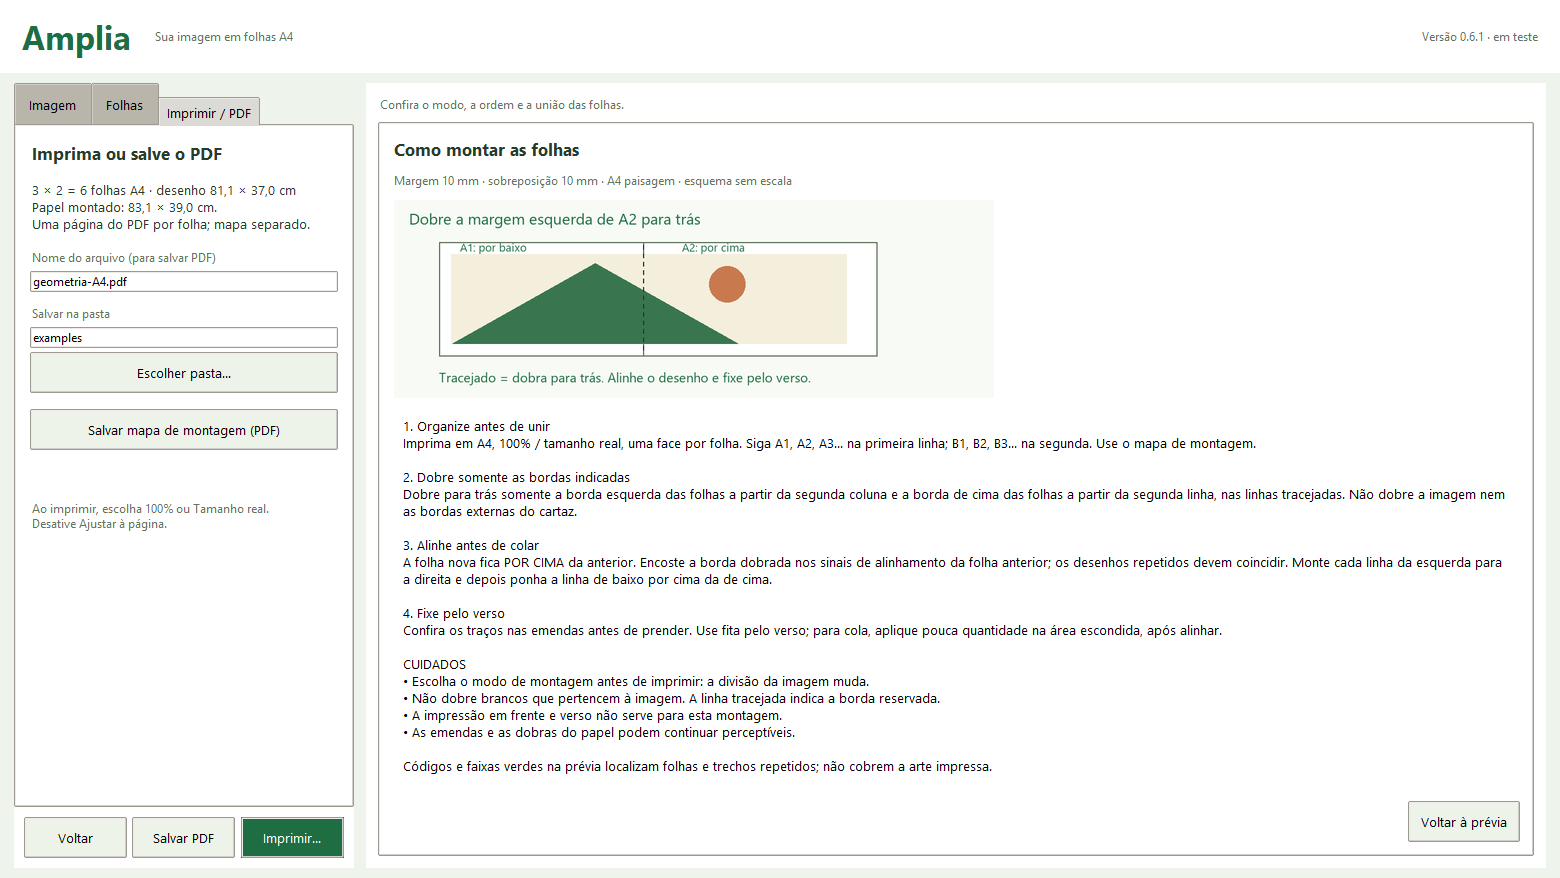
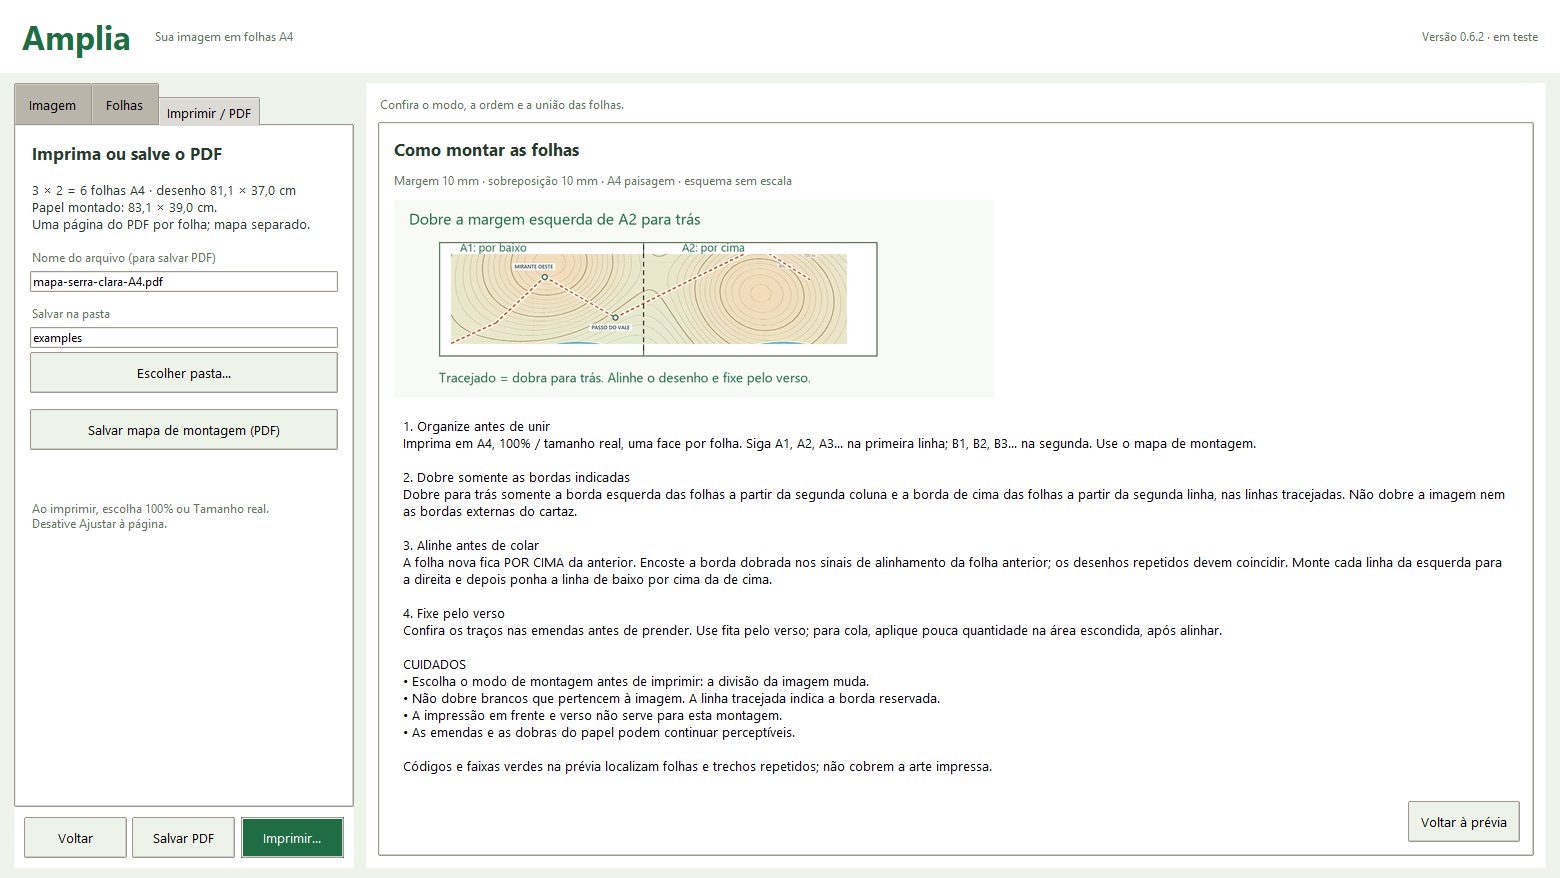
Corrige a imagem de montagem na galeria pública do README
Assisted-by: Codex:GPT-6

Changed region(s): [[0.2769, 0.2768, 0.5538, 0.3998], [0.0308, 0.3075, 0.0923, 0.3383]]

diff --git a/README.md b/README.md
@@ -88,8 +88,11 @@ em paisagem**, no modo com dobra, com 10 mm de margem e de sobreposição. A gra
 | Escolher as folhas e conferir o pôster | Imprimir ou salvar o PDF |
 |---|---|
 | ![Mapa Serra Clara com prévia das seis folhas A4](docs/img/folhas.png) | ![Aba Imprimir e PDF com botões separados para as duas ações](docs/img/imprimir-pdf.png) |
-| **Conferir uma folha individual** | **Entender a dobra e a montagem** |
-| ![Segunda folha do mapa, com a área que será impressa e as guias de montagem](docs/img/folha-individual.png) | ![Ajuda do Amplia mostrando como dobrar a margem para trás e alinhar as folhas](docs/img/montagem.png) |
+| **Conferir uma folha individual** | **Entender a dobra e a montagem (correção em preparação)** |
+| ![Segunda folha do mapa, com a área que será impressa e as guias de montagem](docs/img/folha-individual.png) | <img src="docs/img/montagem.png?v=mapa-062" alt="Ajuda de montagem com mapa, preparada para a versão 0.6.2"> |
+
+A imagem de montagem mostra a correção preparada para a **0.6.2**. O download disponível
+continua na **0.6.1-rc.1**; essa correção ainda não entrou no pacote publicado.
 
 ### Exemplos para experimentar
 
